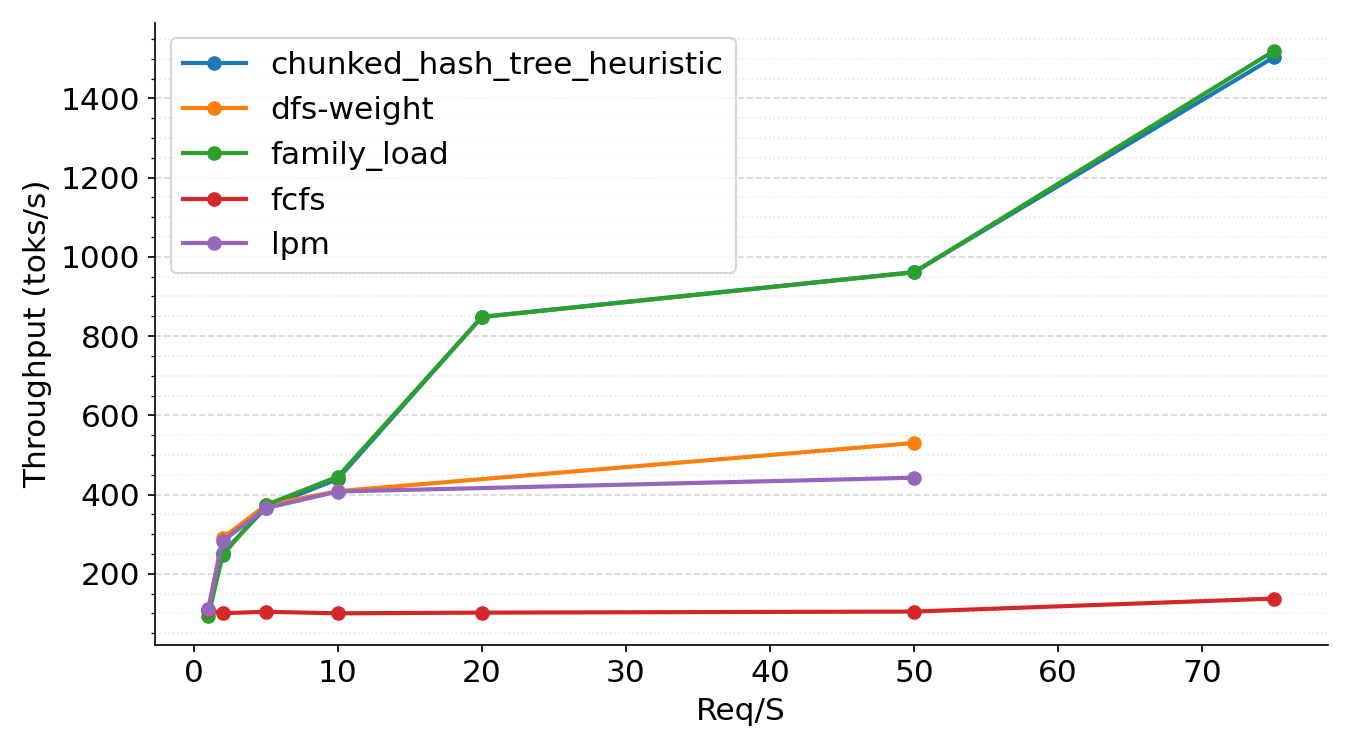
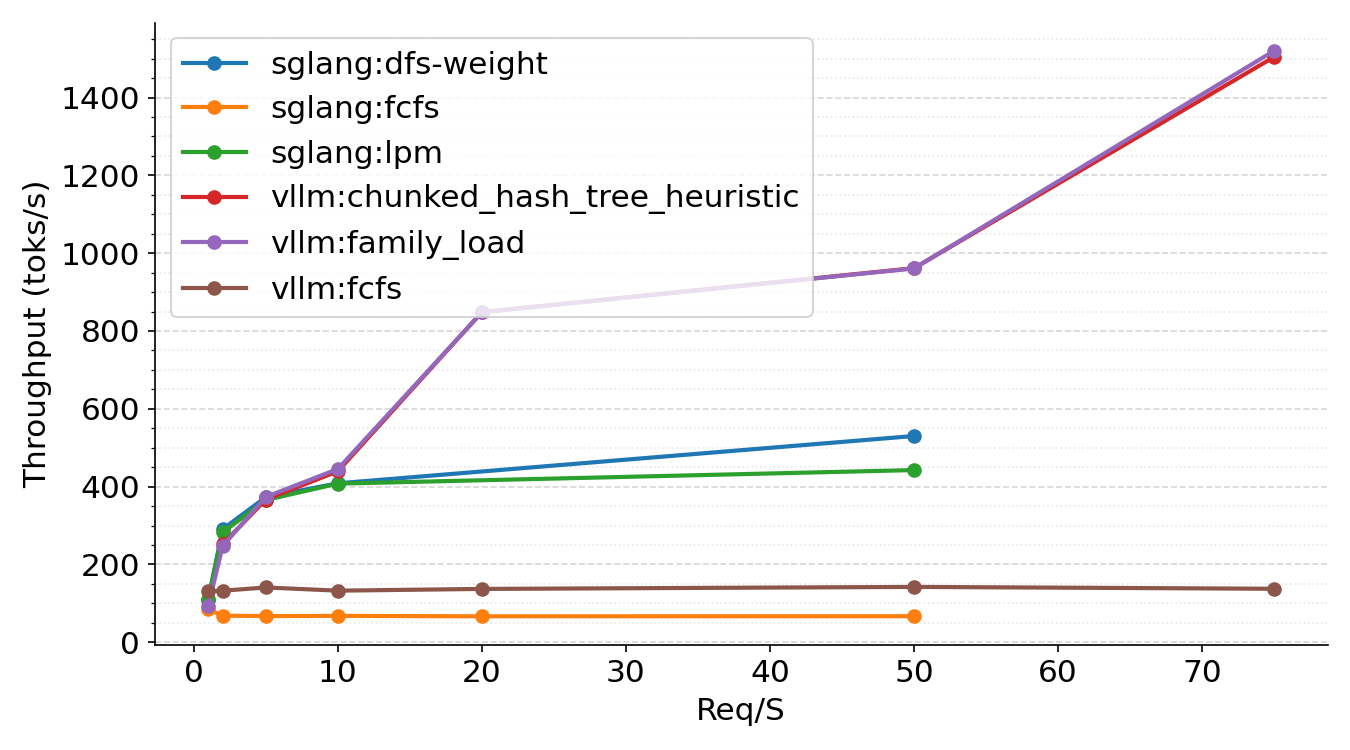
updated plots legend

diff --git a/code/vllm/plot_paper_results.py b/code/vllm/plot_paper_results.py
@@ -32,11 +32,11 @@ X_AXIS   = "req/s"         # column to use as X axis
 # Leave empty [] to use the full DataFrame.
 FILTERS  = [
     # ("engine",   "vllm"),
-    ("families", 50),
-    ("sys_prompt_tokens", 10000),
+    ("families", 5),
+    ("sys_prompt_tokens", 100),
 ]
 
-OUTPUT_PATH = "../../results/throughput_vs_req_s_length_10000_families_50.png"   # where to save the figure
+OUTPUT_PATH = "../../results/throughput_vs_req_s_length_100_families_5.png"   # where to save the figure
 
 # ─────────────────────────────────────────────
 
@@ -50,6 +50,7 @@ def load_and_filter(csv_path: str, filters: list[tuple]) -> pd.DataFrame:
             raise ValueError(f"Filter column '{col}' not found. Available: {list(df.columns)}")
         df = df[df[col] == val]
         print(f"  After filter ({col} == {val!r}): {len(df)} rows remain.")
+    df["policy"] = df["engine"] + ":" + df["policy"]  # combine for legend
     return df
 
 
